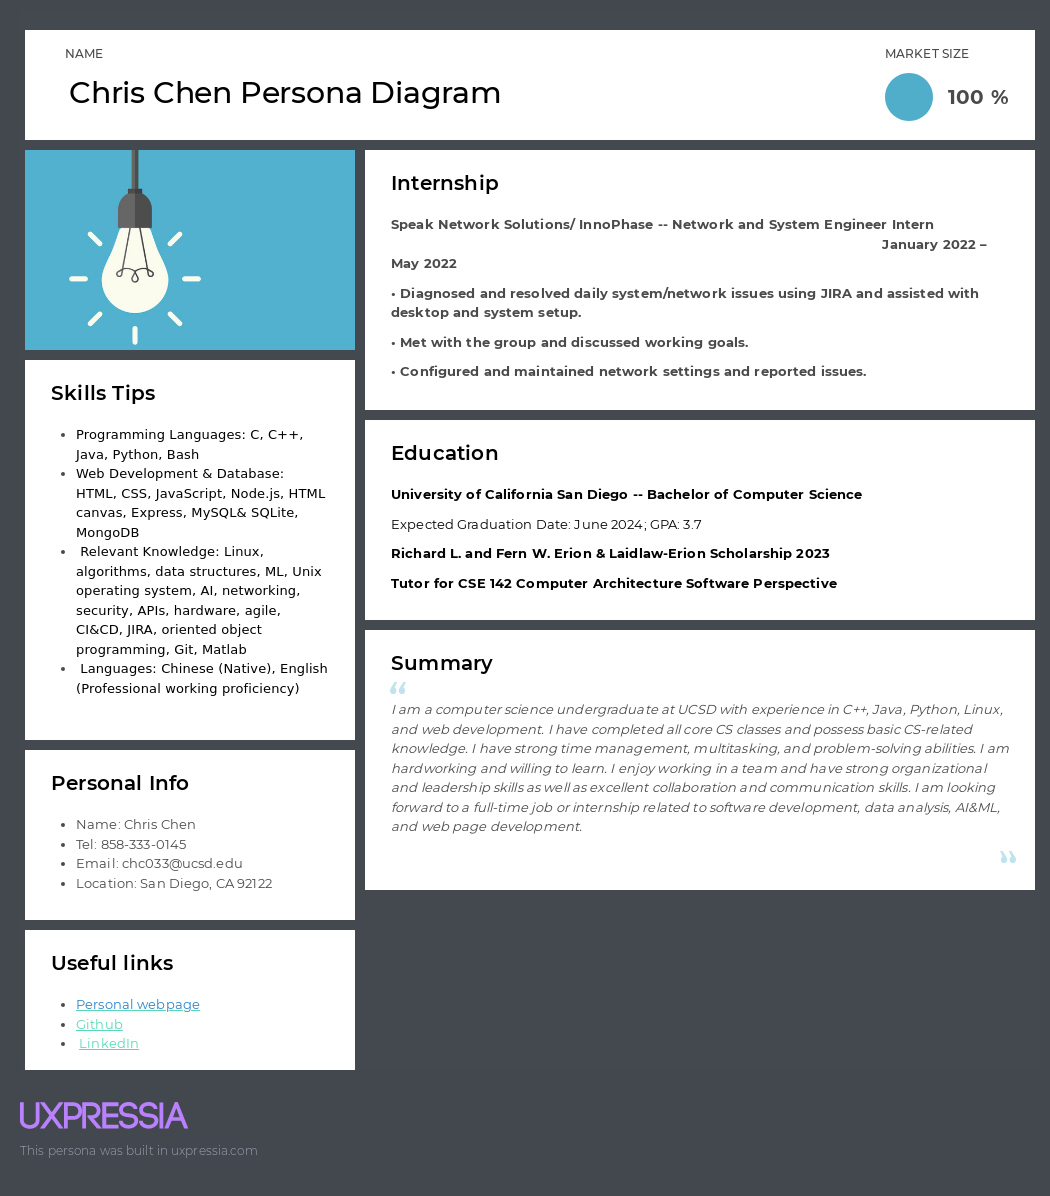
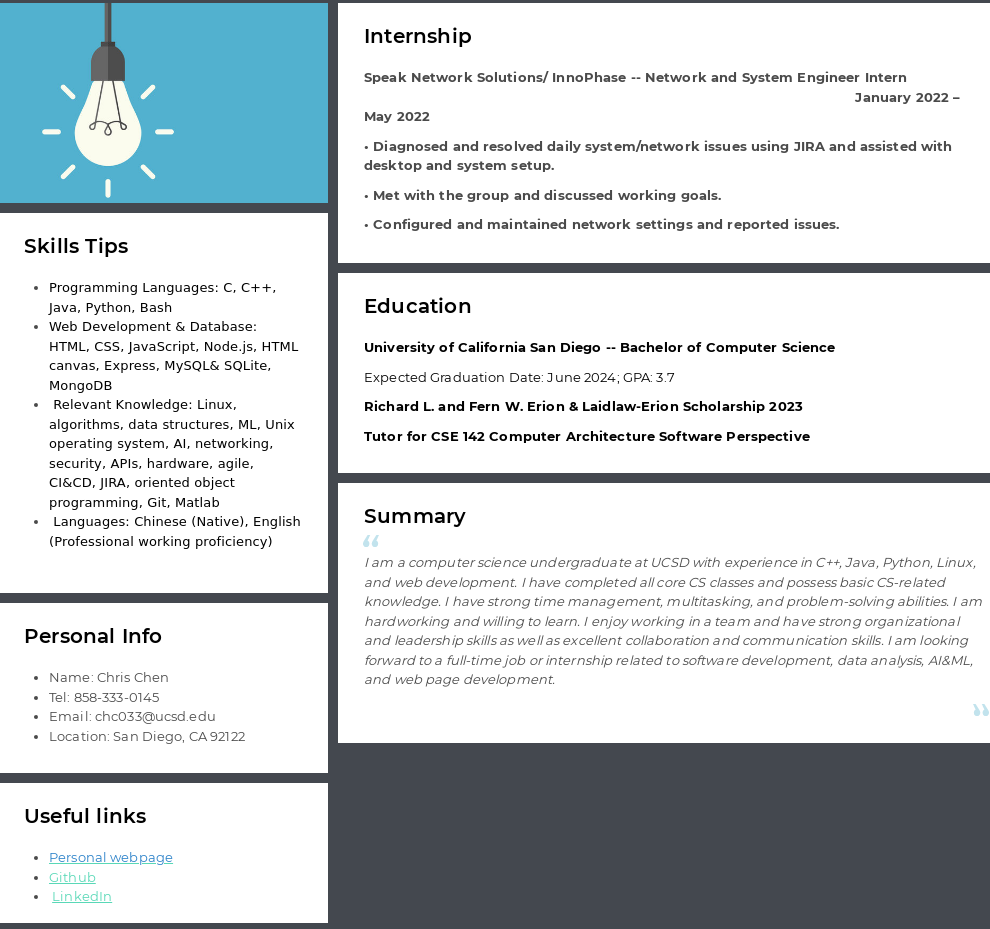
123

diff --git a/style.css b/style.css
@@ -11,7 +11,10 @@
         margin: 10px 0;
     }
 }
-
+:root {
+    /* font size */
+    --font-size-head-title: 2em;
+  }
 @media only screen and (min-width: 481px) and (max-width: 1024px) {
     header {
         padding: 10px 0;
@@ -27,8 +30,17 @@
         padding: 20px 0;
     }
 }
+/*
+EXTRA CREDIT
+*/
+nav{
+    padding: 1%;
+    & a{
+        color:goldenrod;
+    }
+}
 *{
-    font-family: Mulish;
+    font-family: Mulish,sans-serif;
 }
 img {
     object-position: center;
@@ -81,7 +93,7 @@ table{
     text-align: center;
     font-size: var(--font-size-head-title,2em);
     animation: moveRight 5s ease forwards;
-    background-color: color-mix(in srgb,#FF0000, blue); 
+    background-color: color-mix(in srgb,#ff7f50, #ddd); 
 }
 li:has(a) {
     background-color: white;
@@ -103,7 +115,7 @@ li:has(a) {
 footer{
     position: absolute;
     max-width: 100%;
-    padding:1vh;
+    padding:2dvh;
 }
 .summary,.education,.personal-info{
     padding: 1vh 2vw;

diff --git a/index.html b/index.html
@@ -56,8 +56,8 @@
         <grid-container id="portfolio-skills">
                 <grid-item>
                     <picture>
-                        <source srcset="portfolio.png" type="image/png" media="(min-width: 600px)">
-                        <source srcset="portfolio.jpeg" type="image/jpeg">
+                        <source id="jepg" srcset="portfolio.jpeg" type="image/jpeg" media="(min-width: 900px)">
+                        <source srcset="portfolio.png" type="image/png" media="(min-width: 400px)">
                         <img id="port-img" src="portfolio.webp" alt="portfolio" width="300" height="400">
                     </picture>
                 <aside>
